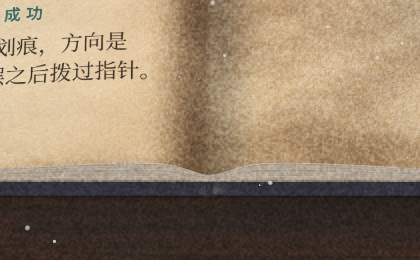
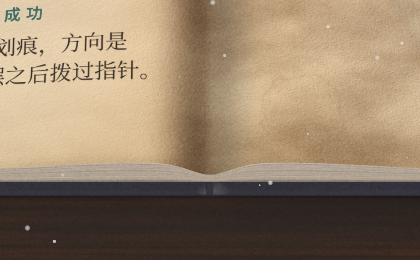
fix: soften the film grain
The grain was an overlay at 0.32 on a fixed 800x450 grid, which read
as 2 px blotches over every surface. It is now 0.1 on a grid that
tracks the canvas size at one cell per 1.25 css px, so it stays a fine
film texture and the paper tooth underneath shows through.

Claude-Session: https://claude.ai/code/session_01AqXAzVB37tSQqERCZi9S1c

Changed region(s): [[0.5881, 0.1846, 0.619, 0.2154]]

diff --git a/src/scene/post.ts b/src/scene/post.ts
@@ -15,8 +15,9 @@ const FilmShader = {
     uExposure: { value: 1 },
     uGrade: { value: 1 },
     uVignette: { value: 1 },
-    uGrain: { value: 0.32 },
-    uGrainCells: { value: new Vector2(800, 450) },
+    uGrain: { value: 0.1 },
+    /** grain grid in cells across the frame; setSize keeps one cell at GRAIN_PX css px */
+    uGrainCells: { value: new Vector2(1280, 720) },
     /** uv rect (x0, y0, x1, y1) of the text column, where the grain is gentler (as on the M0 board). */
     uQuiet: { value: new Vector4(0, 0, 0, 0) },
     uQuietGrain: { value: 0.5 },
@@ -50,7 +51,7 @@ const FilmShader = {
       return fract((p3.x + p3.y) * p3.z);
     }
     float grainAt(vec2 c, float f) { return 0.5 * (hash(c + f * 17.13) + hash(c.yx * 1.37 + 91.7 + f * 3.71)); }
-    // value noise on the grain grid, bilinearly upscaled like the M0 board's 800 x 450 grain canvas
+    // value noise on the grain grid, bilinearly upscaled so each grain is a soft ~1 px speck
     float grain(vec2 p, float f) {
       vec2 i = floor(p - 0.5), u = p - 0.5 - i;
       return mix(mix(grainAt(i, f), grainAt(i + vec2(1.0, 0.0), f), u.x),
@@ -83,6 +84,9 @@ const FilmShader = {
     }`,
 };
 
+/** Size of one grain cell in css px: fine enough to read as film texture, not blotches. */
+const GRAIN_PX = 1.25;
+
 export function createPost(renderer: WebGLRenderer, scene: Scene, camera: Camera) {
   const size = renderer.getDrawingBufferSize(new Vector2());
   const target = new WebGLRenderTarget(size.x, size.y, { type: HalfFloatType, samples: 4 });
@@ -96,6 +100,7 @@ export function createPost(renderer: WebGLRenderer, scene: Scene, camera: Camera
     setSize(w: number, h: number, pixelRatio: number) {
       composer.setPixelRatio(pixelRatio);
       composer.setSize(w, h);
+      film.uniforms.uGrainCells.value.set(w / GRAIN_PX, h / GRAIN_PX);
     },
     render(t: number) {
       film.uniforms.uTime.value = t;
